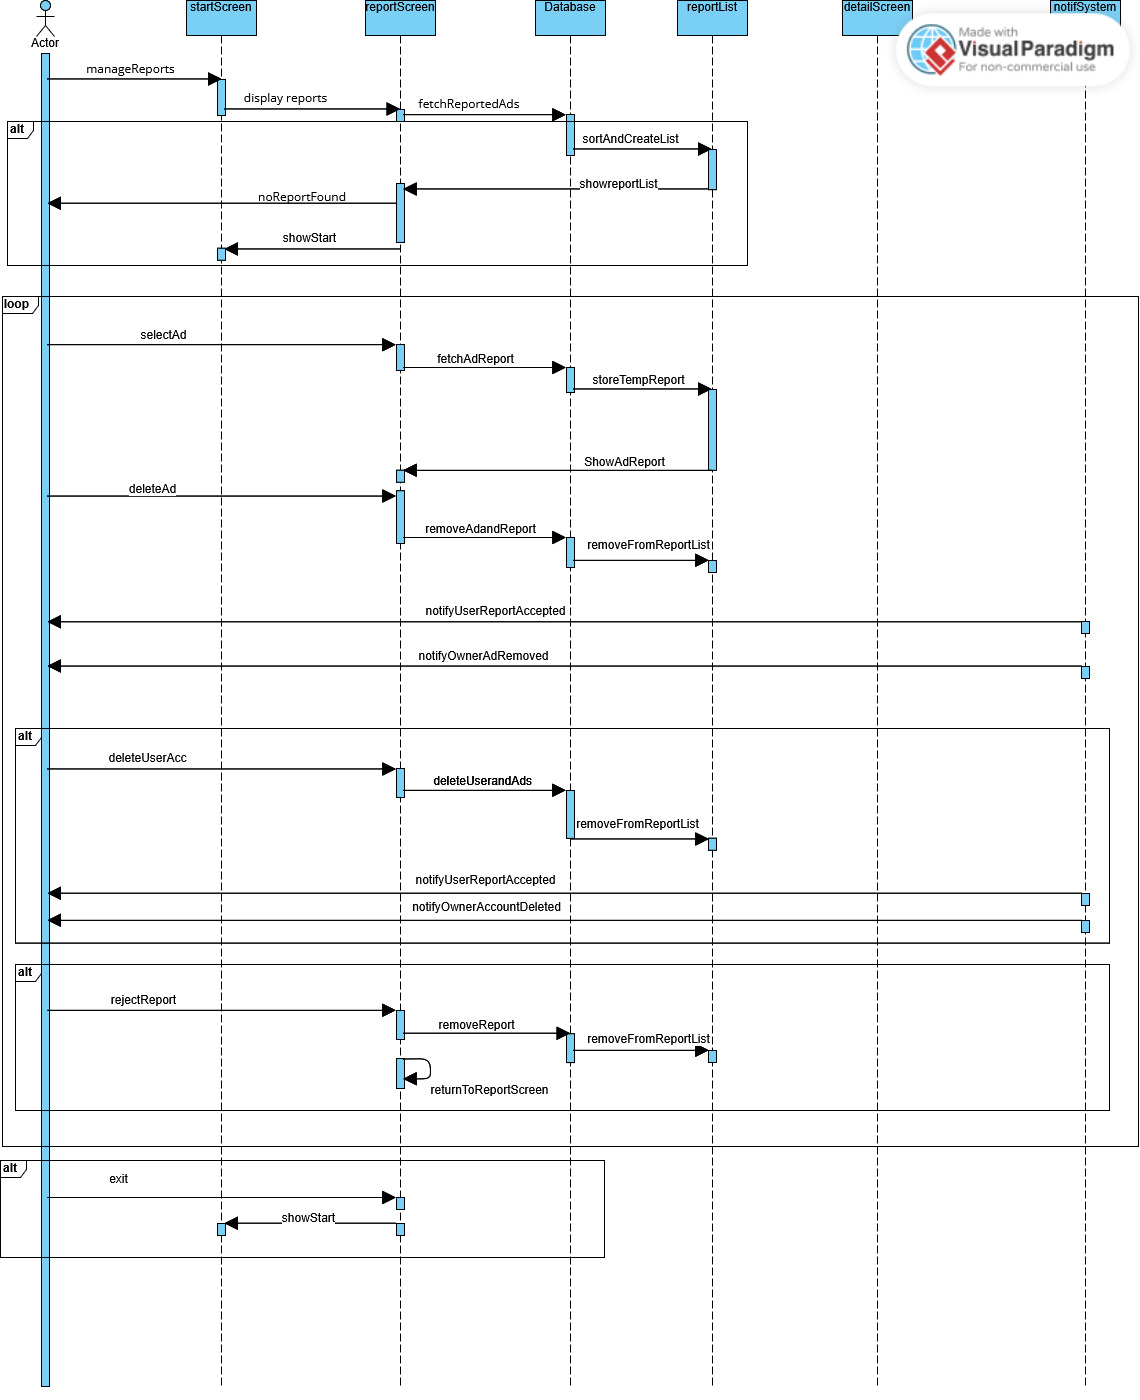
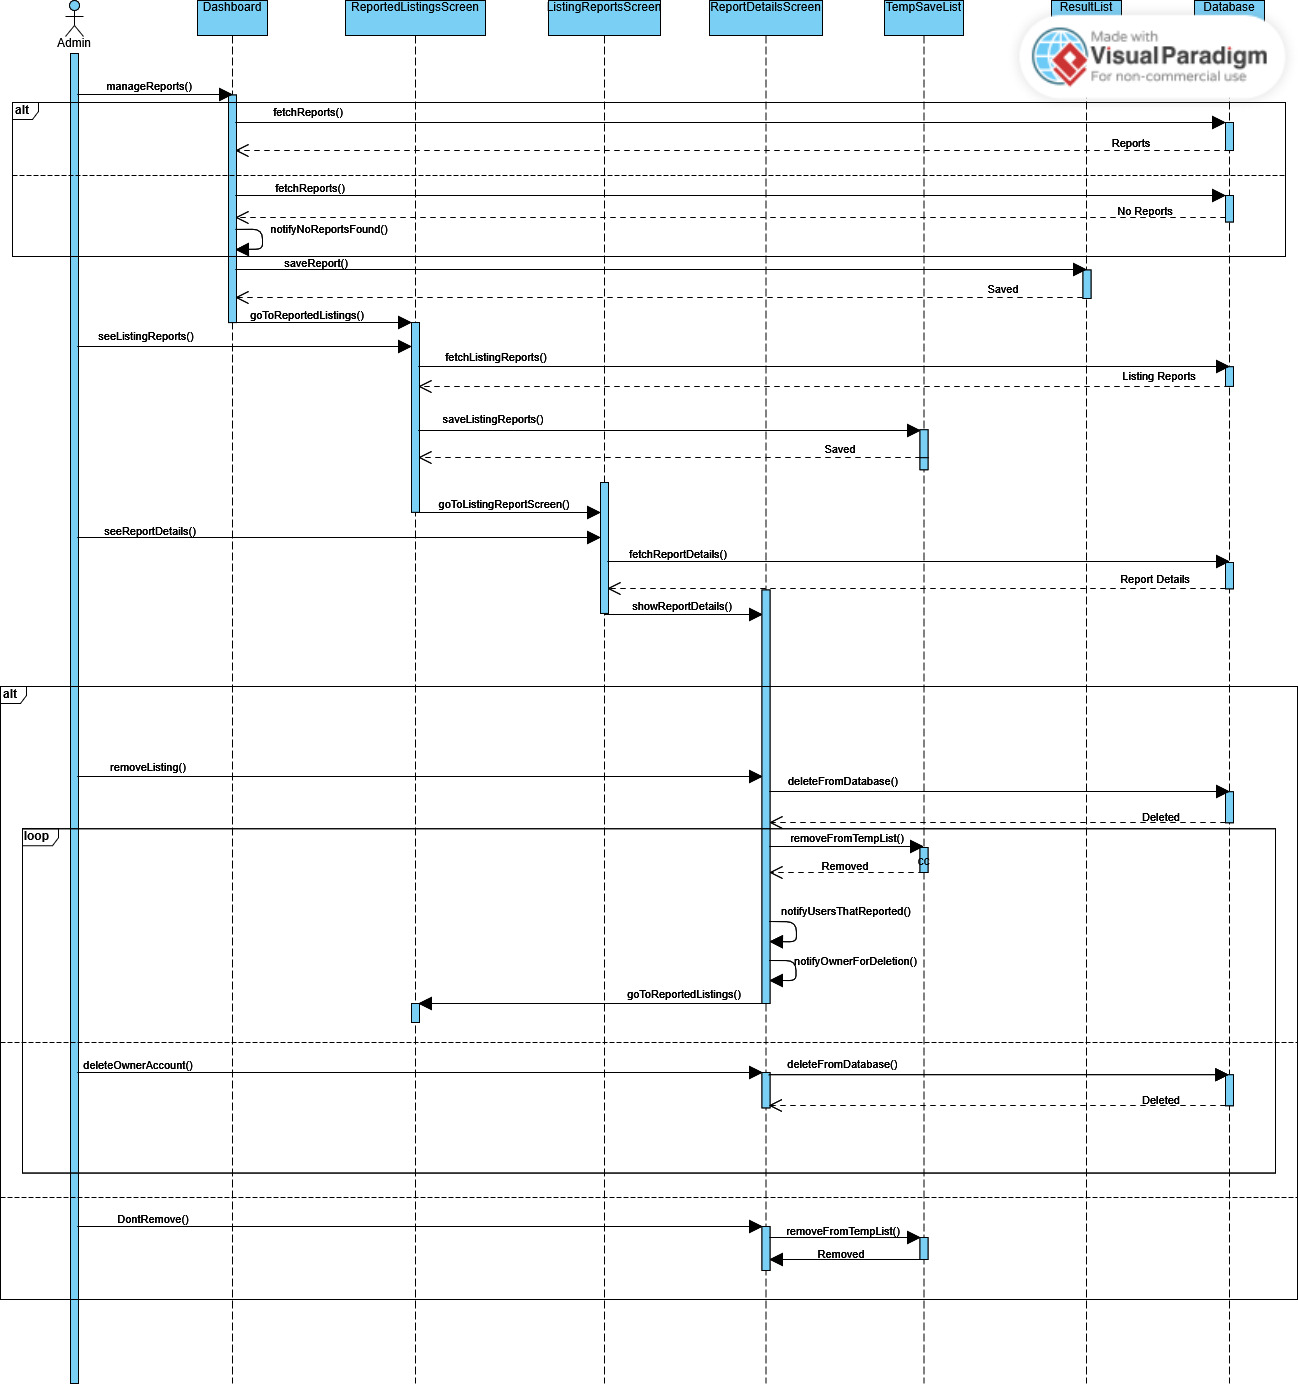
Changed the support UC and added updated sequence diagram

diff --git a/v0.3/UC_Support/UC_support.md b/v0.3/UC_Support/UC_support.md
@@ -3,33 +3,33 @@
 Βήματα Happy Path:
 1.  Ο συντονιστής επιλέγει την διαχείριση αναφορών
 2.  Το σύστημα ανακτά τις καταχωρημένες αγγελίες με αναφορές από τη βάση δεδομένων, τις ταξινομεί με βάση το πλήθος των αναφορών που έχουν δεχθεί και τις αποθηκεύει σε μία λίστα
-3.  Ο συντονιστής επιλέγει μία αγγελία από τη λίστα
-4.  Το σύστημα ανακτά, τοποθετεί στη λίστα προσωρινής αποθήκευσης και εμφανίζει τις αναφορές που έχουν γίνει για την επιλεγμένη αγγελία (είδος αναφοράς, χρονική στιγμή υποβολής)
-5.  Ο συντονιστής επιλέγει προβολή λεπτομερειών για κάποια αναφορά
-6.  Το σύστημα ανακτά την λεπτομερή αναφορά που έχει κάνει ο κάθε χρήστης και την αναλυτική περιγραφή της αγγελίας και τις εμφανίζει
-7.  Ο συντονιστής επιλέγει την διαγραφή της αγγελίας καταγράφοντας τον λόγο της αποφασής του
-8.  Το σύστημα διαγράφει από τη βάση δεδομένων τη συγκεκριμένη αγγελία και τις αναφορές της που έχουν γίνει για την αγγελία που διαγράφηκε
-9.  Το σύστημα καθαρίζει τη λίστα προσωρινής αποθήκευσης των αναφορών για την αγγελία
-10. Το σύστημα αποστέλλει ειδοποίηση τον χρήστη (ενοικιαστής/ιδιοκτήτης) που υπέβαλαν την αναφορά ότι το αίτημά τους εξετάστηκε και η αγγελία αφαιρέθηκε
-11. Το σύστημα αποστέλλει ειδοποίηση στον ιδιοκτήτη ότι η αγγελία αφαιρέθηκε
-12. Το σύστημα μεταβιβάζει τον συντονιστή στην οθόνη προβολής των αγγελίων που έχουν αναφορές
+3. Το σύστημα μεταφέρει τον συντονιστή στην οθόνη αγγελιών 
+4. Ο συντονιστής επιλέγει μία αγγελία από τη λίστα
+5.  Το σύστημα ανακτά, τοποθετεί στη λίστα προσωρινής αποθήκευσης και εμφανίζει τις αναφορές που έχουν γίνει για την επιλεγμένη αγγελία (είδος αναφοράς, χρονική στιγμή υποβολής)
+6.  Ο συντονιστής επιλέγει προβολή λεπτομερειών για κάποια αναφορά
+7.  Το σύστημα ανακτά την λεπτομερή αναφορά και την αναλυτική περιγραφή της αγγελίας και τις εμφανίζει
+8.  Ο συντονιστής επιλέγει την διαγραφή της αγγελίας καταγράφοντας τον λόγο της αποφασής του
+9.  Το σύστημα διαγράφει από τη βάση δεδομένων τη συγκεκριμένη αγγελία και τις αναφορές της που έχουν γίνει για την αγγελία που διαγράφηκε
+10.  Το σύστημα καθαρίζει τη λίστα προσωρινής αποθήκευσης των αναφορών για την αγγελία
+11. Το σύστημα αποστέλλει ειδοποίηση στους χρήστες που υπέβαλαν αναφορά για την αγγελία ότι το αίτημά τους εξετάστηκε και η αγγελία αφαιρέθηκε
+12. Το σύστημα αποστέλλει ειδοποίηση στον ιδιοκτήτη ότι η αγγελία αφαιρέθηκε
+13. Το σύστημα μεταβιβάζει τον συντονιστή στην οθόνη προβολής των αγγελίων που έχουν αναφορές
 
 Εναλλακτικές Ροές
-1. Διαχείριση Αναφορών σε Λογαριασμούς (από το βήμα 7 της βασικής ροής)
-10.1.1 Ο συντονιστής ελέγχει την αναφορά και επιλέγει την απενεργοποίηση του λογαριασμού χρήστη (ενοικιαστής/ ιδιοκτήτης) λόγω σημαντικότητας της αναφοράς
-10.1.2 Το σύστημα διαγράφει όλες τις αγγελίες του συγκεκριμένου λογαριασμού και τον λογαριασμό του χρήστη (ενοικιαστής/ ιδιοκτήτης) από τη βάση δεδομένων
+1. Διαχείριση Αναφορών σε Λογαριασμούς (από το βήμα  της βασικής ροής)
+10.1.1 Ο συντονιστής ελέγχει την αναφορά και επιλέγει την απενεργοποίηση του λογαριασμού ιδιοκτήτη λόγω σημαντικότητας της αναφοράς
+10.1.2 Το σύστημα διαγράφει όλες τις αγγελίες του συγκεκριμένου λογαριασμού και τον λογαριασμό του ιδιοκτήτη από τη βάση δεδομένων
 10.1.3 Επιστροφή στο βήμα 9
 
 2. Καμία Αναφορά (από το βήμα 2 της βασικής ροής)
 10.2.1 Το σύστημα δεν ανακτά καμία αναφορά από τη βάση δεδομένων
 10.2.2 Το σύστημα εμφανίζει μήνυμα ενημέρωσης στον συντονιστή
-10.2.3 Μετάβαση στην εναλλακτική ροή 4
 
-3. Απόρριψη Αναφορών Αγγελιών (από το βήμα 7 της βασικής ροής)
+3. Απόρριψη Αναφορών Αγγελιών (από το βήμα 8 της βασικής ροής)
 10.3.1 Ο συντονιστής επιλέγει να μην κάνει διαγραφή της αγγελίας
 10.3.2 Το σύστημα καθαρίζει τη λίστα προσωρινής αποθήκευσης των αναφορών για τη συγκεκριμένη αγγελία και τις αναφορές
-10.3.4 Επιστροφή στο βήμα 12
+10.3.4 Το σύστημα μεταβιβάζει τον συντονιστή στην οθόνη προβολής των αγγελίων που έχουν αναφορές
 
-4. Έξοδος από το σύστημα (από το βήμα 3, 5 και 7 της βασικής ροής)
+4. Έξοδος από το σύστημα (από το βήμα 4, 6 και 8 της βασικής ροής)
 10.4.1 Ο συντονιστής επιλέγει την έξοδο από την διαδικασία
 10.4.2 Το σύστημα μεταβιβάζει τον συντονιστή στην αρχική οθόνη
